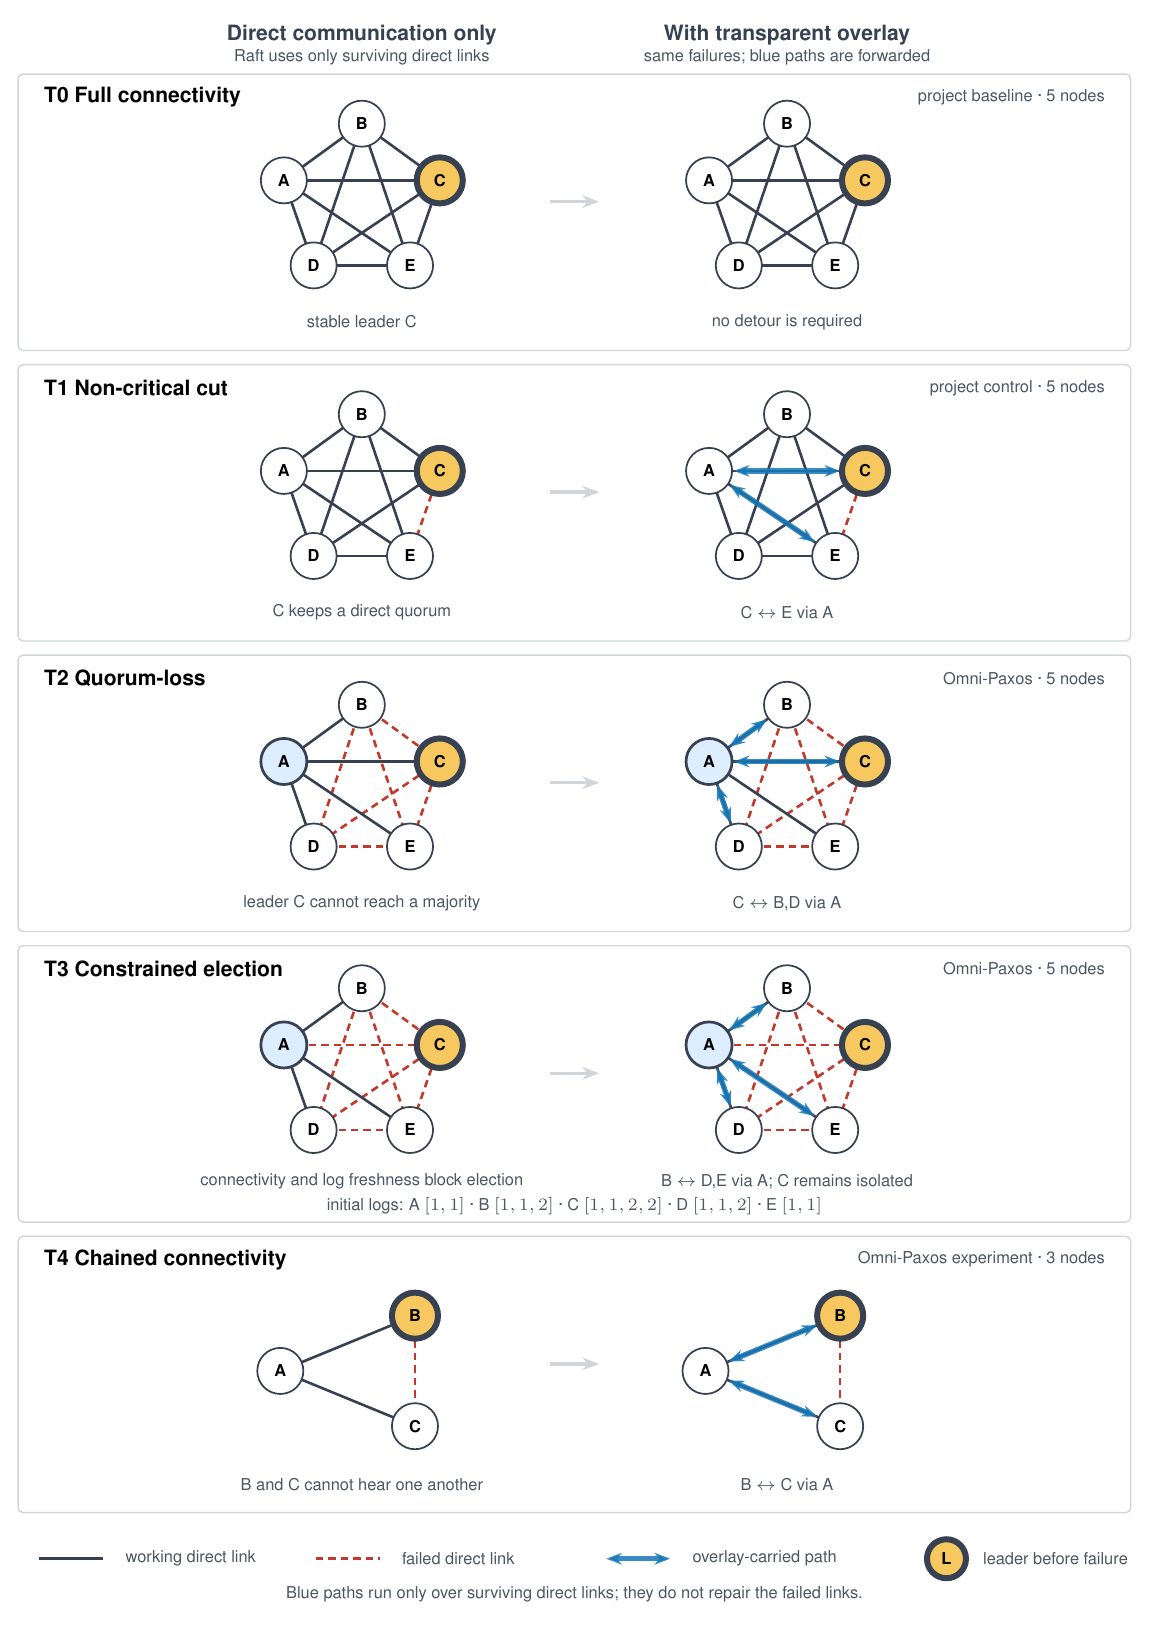
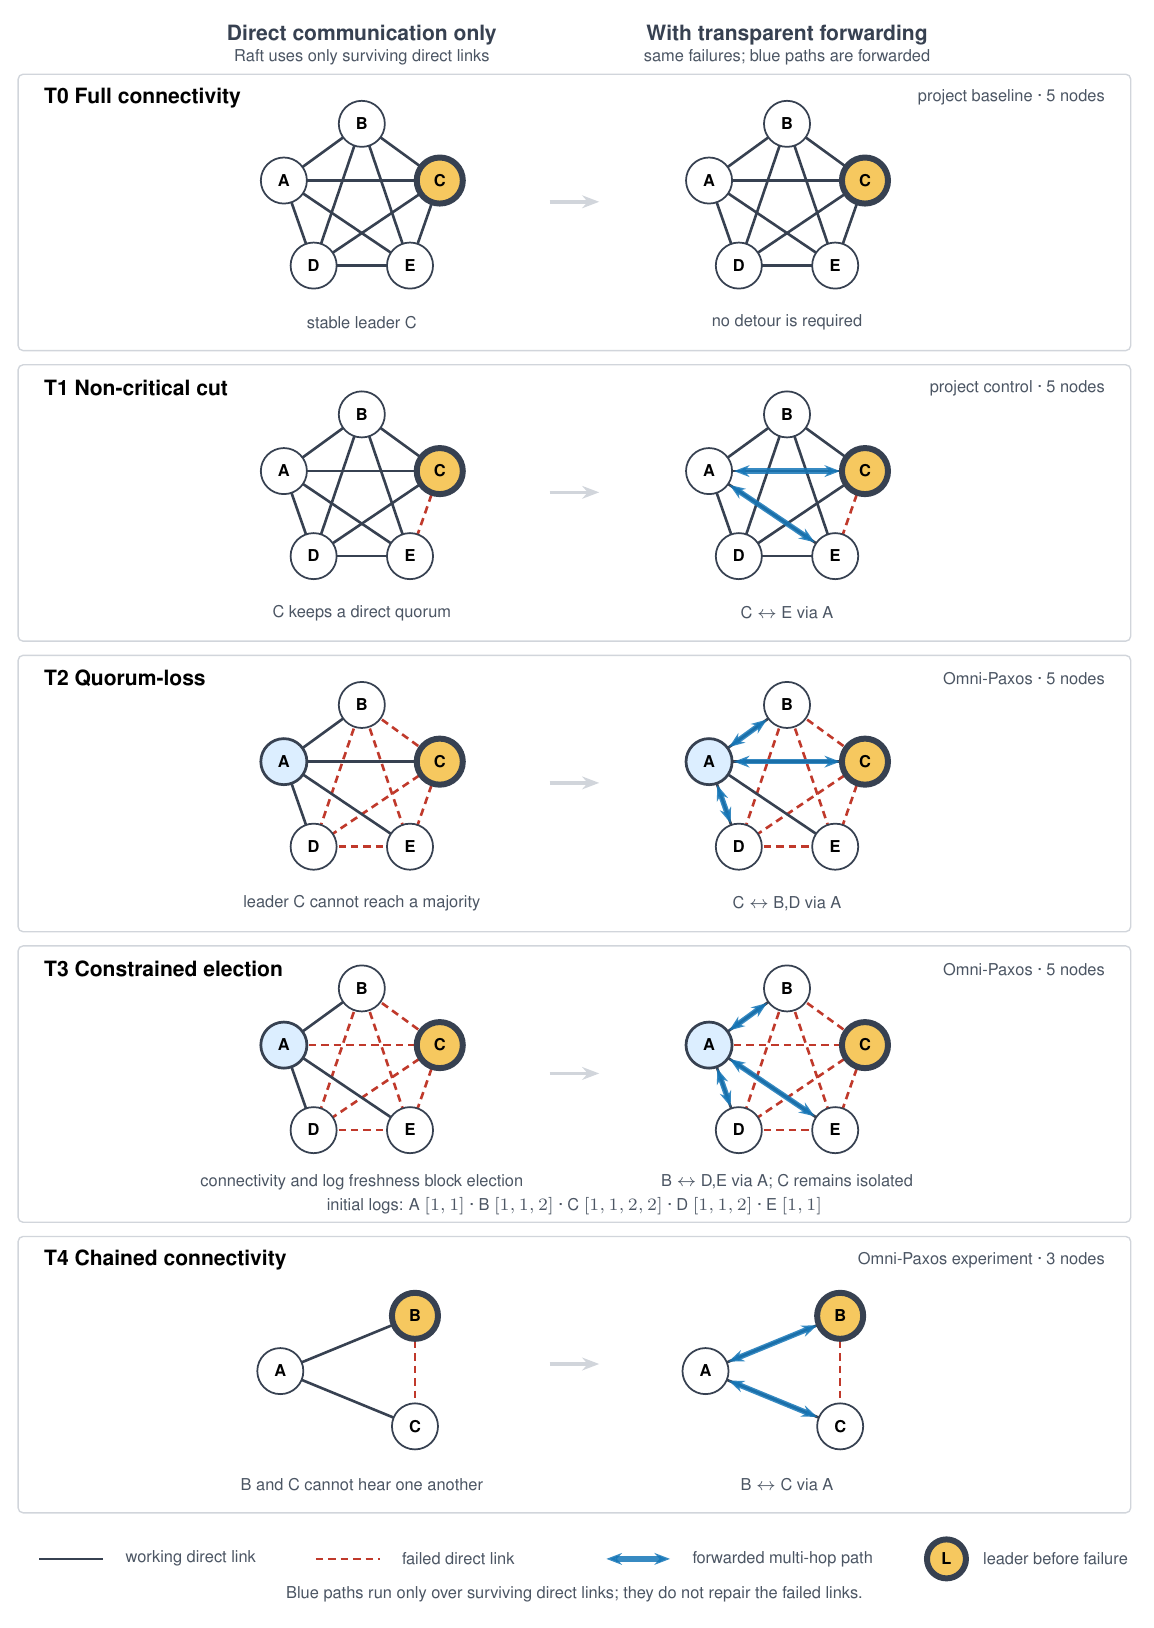
settled on mininet for the experiments

diff --git a/research-plan/figures/topology-scenarios.tex b/research-plan/figures/topology-scenarios.tex
@@ -62,7 +62,7 @@
 
 \node[heading] at (-3,11.15) {Direct communication only};
 \node[note] at (-3,10.84) {Raft uses only surviving direct links};
-\node[heading] at (3,11.15) {With transparent overlay};
+\node[heading] at (3,11.15) {With transparent forwarding};
 \node[note] at (3,10.84) {same failures; blue paths are forwarded};
 
 % T0 -------------------------------------------------------------------------
@@ -207,7 +207,7 @@
 \draw[failed] (-3.65,-10.35)--(-2.75,-10.35);
 \node[anchor=west,note] at (-2.55,-10.35) {failed direct link};
 \draw[route,shorten <=0pt,shorten >=0pt] (0.45,-10.35)--(1.35,-10.35);
-\node[anchor=west,note] at (1.55,-10.35) {overlay-carried path};
+\node[anchor=west,note] at (1.55,-10.35) {forwarded multi-hop path};
 \node[leader,minimum size=5.5mm] at (5.25,-10.35) {L};
 \node[anchor=west,note] at (5.65,-10.35) {leader before failure};
 

diff --git a/research-plan/notes/topology-scenarios.md b/research-plan/notes/topology-scenarios.md
@@ -3,8 +3,9 @@
 The experiments compare direct communication with transparent multi-hop
 forwarding under the same network conditions. All links shown are bidirectional.
 Solid links remain available after fault injection; dashed links have failed.
-Blue paths show logical communication provided by the overlay over those
-surviving links; they do not represent repaired or additional physical links.
+Blue paths show logical multi-hop communication provided by Linux routing and
+IP forwarding over those surviving links; they do not represent repaired or
+additional physical links.
 
 The five-node scenarios use the same pentagonal node arrangement as
 Omni-Paxos: A is on the left, B at the top, C on the right, and D and E at the
@@ -42,8 +43,8 @@ bottom.
   from A but cannot communicate directly with a majority.
 - **Purpose:** Test whether forwarding restores progress when the existing
   leader loses its direct quorum despite the graph remaining connected.
-- **Expected behaviour:** Direct-only Raft may stall; overlay forwarding should
-  restore paths from the leader to a majority.
+- **Expected behaviour:** Direct-only Raft may stall; transparent forwarding
+  should restore paths from the leader to a majority.
 - **Origin:** Omni-Paxos quorum-loss scenario.
 
 ## T3 — Constrained election
@@ -59,7 +60,7 @@ bottom.
 - **Purpose:** Test whether forwarding enables a viable election when
   connectivity and Raft's log-freshness voting rule favour different nodes.
 - **Expected behaviour:** Direct-only Raft may fail to elect a leader that can
-  make progress; overlay forwarding should restore stable progress.
+  make progress; transparent forwarding should restore stable progress.
 - **Origin:** Omni-Paxos outdated-log/constrained-election scenario.
 
 ## T4 — Chained connectivity
@@ -73,8 +74,8 @@ bottom.
 - **Purpose:** Test whether forwarding prevents repeated elections caused by
   the two endpoint nodes being unable to hear one another directly.
 - **Expected behaviour:** Direct-only Raft may alternate elections and terms;
-  overlay forwarding should allow B and C to communicate through A and stabilize
-  the cluster.
+  transparent forwarding should allow B and C to communicate through A and
+  stabilize the cluster.
 - **Origin:** Omni-Paxos chained scenario. The original paper and experiment use
   three nodes for this case.
 
@@ -82,5 +83,5 @@ bottom.
 
 See the [topology figure](../figures/topology-scenarios.pdf). T0 and T1 are
 project controls; T2--T4 reproduce the corresponding Omni-Paxos topology
-shapes. Each row compares direct-only communication with overlay forwarding
+shapes. Each row compares direct-only communication with transparent forwarding
 while keeping the failed-link graph unchanged.

diff --git a/research-plan/notes/experiment-specification.md b/research-plan/notes/experiment-specification.md
@@ -58,9 +58,47 @@ If the exact experimental version is later archived in a repository that
 assigns a DOI, prefer the archived software citation and DOI while retaining
 the GitHub URL as supporting information.
 
+## Network emulation and transparent forwarding
+
+- **Status:** Fixed
+- **Network emulator:** Mininet
+- **Repository:** <https://github.com/mininet/mininet>
+- **Link emulator:** Mininet traffic-controlled links (`TCLink`).
+- **Forwarding mechanism:** Preconfigured Linux routes and IP forwarding inside
+  the Mininet hosts.
+- **Role in the study:** Mininet will provide the complete controlled network
+  testbed. Each Mininet host will run one HashiCorp Raft replica. Mininet will
+  create the predefined links, inject link failures, and apply controlled
+  per-link delay.
+- **Link control:** `TCLink` will define delay and any other selected link
+  properties. The same link parameters and failure schedule will be used in
+  paired direct-only and forwarding runs.
+- **Node identity:** Each Raft replica will use a stable address that does not
+  change when the path to that replica changes.
+- **Direct-only condition:** A replica may communicate only over its surviving
+  direct links. Intermediate Mininet hosts do not forward Raft traffic.
+- **Forwarding condition:** Preconfigured Linux routes and IP forwarding inside
+  the Mininet hosts will carry Raft traffic over surviving multi-hop paths.
+  HashiCorp Raft will continue using the same peer addresses and will not be
+  modified to select or manage routes.
+- **Controlled comparison:** Routing mode is the treatment. The Raft
+  implementation, topology, failed links, delay, workload, and fault timing
+  remain fixed within each pair of runs.
+
+NIFTY will remain part of the related work and motivation, but its implementation
+will not be used in the experiment. This keeps the study focused on the causal
+effect of transparent multi-hop forwarding rather than NIFTY's failure-detection
+or route-convergence behaviour.
+
+Before the main experiment, a pilot using the three-node chained topology must
+verify that B cannot reach C in direct-only mode, that B can reach C through A
+when forwarding is enabled, and that the configured per-link delay is reflected
+in the end-to-end path.
+
 ## Decisions still to be fixed
 
-- Network emulation and transparent forwarding mechanism.
+- Exact Mininet version or commit.
+- Exact Mininet topology, interface, address, and routing configuration.
 - Raft configuration, including heartbeat, election, commit, and lease
   timeouts; snapshot and log-store settings; and transport configuration.
 - Mapping between topology node labels and Raft server IDs/addresses.
